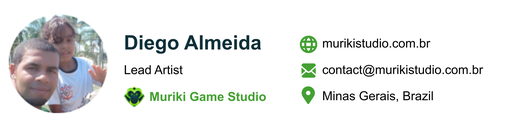
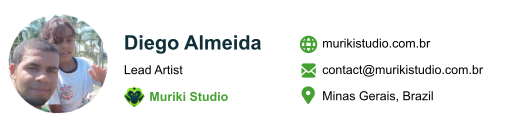
update studio name and colors

diff --git a/assets/css/main.css b/assets/css/main.css
@@ -79,7 +79,7 @@ footer {
 }
 
 .logo-text {
-    width: 80vh;
+    width: 60vh;
 }
 
 .banner {
@@ -118,7 +118,7 @@ footer {
     }
 
     .logo-text {
-        width: 95vw;
+        width: 100vw;
     }
 
     .page-content {

diff --git a/README.md b/README.md
@@ -1,5 +1,5 @@
 <p align="center">
-  <img width="600px" alt="Muriki Game Studio" src="assets/img/logo-share.webp">
+  <img width="600px" alt="Muriki Studio" src="assets/img/logo-share.webp">
 </p>
 
 [Jekyll](https://jekyllrb.com/) project containing the contents of the website

diff --git a/pages/about.md b/pages/about.md
@@ -6,7 +6,7 @@ permalink: about
 
 # {{ page.title }}
 
-Muriki Game Studio is an indie-game development team formed in 2022.
+Muriki Studio is an indie-game development team formed in 2022.
 The current development team is composed by:
 
 - Diego Almeida (2D and 3D artist)
